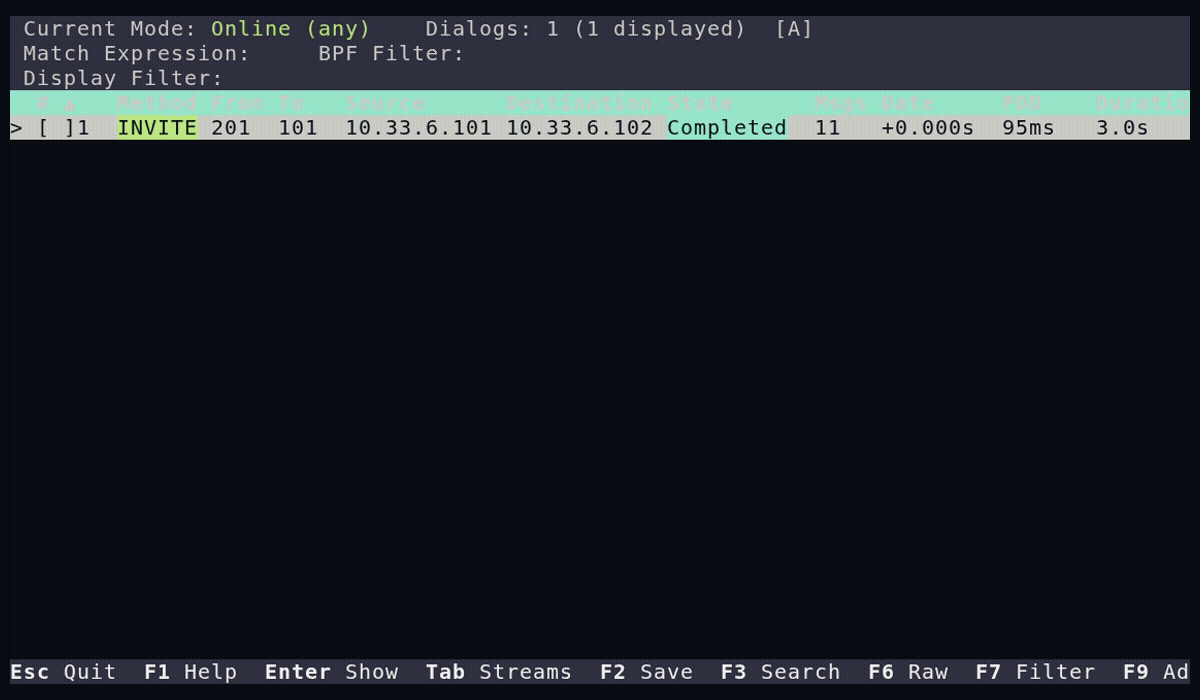
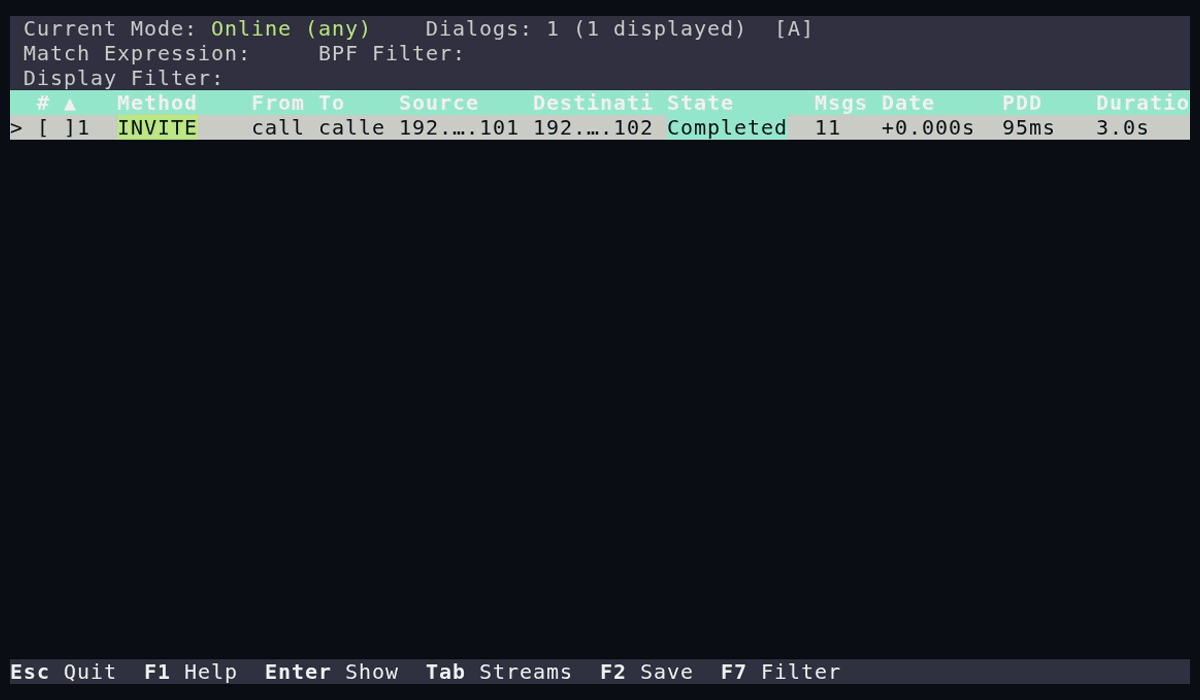
Re-record the demos, and stop scoping the guard to the tab that was reported
Seven of the eight demo artifacts on the homepage dated from 2026-07-22 and
predated the fix for the call-list column arithmetic. Multi-Leg shipped a
visibly truncated method for nineteen days:

    [ ]4 SUBSCRIB bob bob 203.0.113.145 ...

The CODE was already correct. 7378f9c widened the Method constraint to 9 on
2026-07-20, and the pool fix that made the constraint honest landed later; only
04-filter was ever re-recorded afterwards, because Search is the tab somebody
happened to look at. The other six kept showing the state of the tree on the
day they were captured.

Re-recorded against the tree-built 0.5.91 binary, and frame-checked rather than
trusted: vhs exits 0 on a recording of a program that failed to start. The first
attempt here produced a perfectly valid GIF of

    sipnab: error while loading shared libraries: libpcap.so.0.8

because the render container had glibc but not libpcap. That is the exact
failure demos/Makefile was written to prevent -- "a screenshot of a defect,
published as the product" -- reached by a different route. The renders now
check the artifact, not the exit code.

THE GUARD IS THE REAL FIX. `demo_terminal_renders_every_sip_method_whole` reads
demos/04-filter.tape and nothing else, so it stayed green for the entire
nineteen days, on the same 88-column geometry, from the same arithmetic that
broke the tab beside it. `every_demo_tape_renders_methods_whole` now walks the
[…]

diff --git a/website/templates/index.html b/website/templates/index.html
@@ -164,7 +164,7 @@ sipnab -N --json -I capture.pcap --problems</code></pre>
           <tr><td>REST API + Prometheus</td><td>Query dialogs, streams, stats via HTTP. Prometheus metrics endpoint.</td></tr>
           <tr><td>MCP server</td><td>Drive sipnab from an AI agent (Claude Code, Claude Desktop, …) over stdio or HTTP. 24 tools cover dialogs, RTP, diagnostics, and security findings, and none of them alters the analysis.</td></tr>
           <tr><td>Browser analysis</td><td>Analyze pcap files in the browser via WASM. Zero upload, zero install.</td></tr>
-          <tr><td>Built in Rust</td><td>Memory-safe by construction. 4689 automated tests. Under 12 MB static binary.</td></tr>
+          <tr><td>Built in Rust</td><td>Memory-safe by construction. 4690 automated tests. Under 12 MB static binary.</td></tr>
         </tbody>
       </table>
     </div>
@@ -243,7 +243,7 @@ sipnab -N --json -I capture.pcap --problems</code></pre>
         <span class="arch-label">Offline reconstruction, four cores (measured v0.5.91)</span>
       </a>
       <a class="arch-item fade-in-up" href="{{ config.extra.github_url }}/actions/workflows/ci.yml">
-        <span class="arch-stat" data-count="4689" data-suffix="">4689</span>
+        <span class="arch-stat" data-count="4690" data-suffix="">4690</span>
         <span class="arch-label">Automated tests</span>
       </a>
     </div>

diff --git a/tests/site_journey_test.rs b/tests/site_journey_test.rs
@@ -2085,6 +2085,72 @@ mod demo_terminal_method_rendering {
 
     /// Render the current screen and assert every method on it is readable in
     /// full — the effect, not the `Constraint` that was requested.
+    /// EVERY demo tape that opens a capture must render every SIP method whole
+    /// at the recorded cell geometry — not just the one tape that was reported.
+    ///
+    /// `demo_terminal_renders_every_sip_method_whole` above reads
+    /// `demos/04-filter.tape` and nothing else, because Search is the tab
+    /// somebody happened to look at. Multi-Leg shipped `SUBSCRIB` for nineteen
+    /// days with that gate green, on the same 88-column geometry, from the same
+    /// column arithmetic. A guard scoped to the case that prompted it is a
+    /// guard that passes confidently about everything it never opened.
+    ///
+    /// Driven off the tape list on disk, so a NEW tape is covered the day it
+    /// lands rather than when someone remembers to extend a list here.
+    #[test]
+    fn every_demo_tape_renders_methods_whole() {
+        let mut checked = 0usize;
+        let mut dir: Vec<_> = std::fs::read_dir(repo().join("demos"))
+            .expect("demos/ is readable")
+            .filter_map(Result::ok)
+            .map(|e| e.path())
+            .filter(|p| p.extension().and_then(|s| s.to_str()) == Some("tape"))
+            .collect();
+        dir.sort();
+
+        for tape_path in dir {
+            let tape = std::fs::read_to_string(&tape_path).expect("tape is readable");
+            // The pcap a tape opens, if it opens one. `hero` and the CLI demo
+            // may not drive the call list at all.
+            let Some(rel) = tape
+                .lines()
+                .filter_map(|l| l.split("sipnab -I ").nth(1))
+                .filter_map(|r| r.split_whitespace().next())
+                .map(|r| r.trim_matches('"').to_string())
+                .next()
+            else {
+                continue;
+            };
+            let pcap = repo().join(&rel);
+            if !pcap.is_file() {
+                continue;
+            }
+
+            let mut app = App::new_test();
+            app.handle_key(KeyCode::Char('O'));
+            app.handle_key(KeyCode::Tab);
+            app.open_path_clear_for_test();
+            for c in pcap.to_string_lossy().chars() {
+                app.handle_key(KeyCode::Char(c));
+            }
+            app.handle_key(KeyCode::Enter);
+
+            let mut term = Terminal::new(TestBackend::new(DEMO_COLS, DEMO_ROWS)).unwrap();
+            let what = format!("{} (unfiltered list)", tape_path.display());
+            assert_methods_render_whole(&mut app, &mut term, &what, "");
+            checked += 1;
+        }
+
+        // A walk that matched nothing would pass silently, which is the exact
+        // failure mode this test exists to end.
+        assert!(
+            checked >= 4,
+            "only {checked} demo tapes were checked — the tape walk or the \
+             `sipnab -I` extraction stopped matching, so this gate is asserting \
+             about almost nothing"
+        );
+    }
+
     fn assert_methods_render_whole(
         app: &mut App,
         term: &mut Terminal<TestBackend>,
